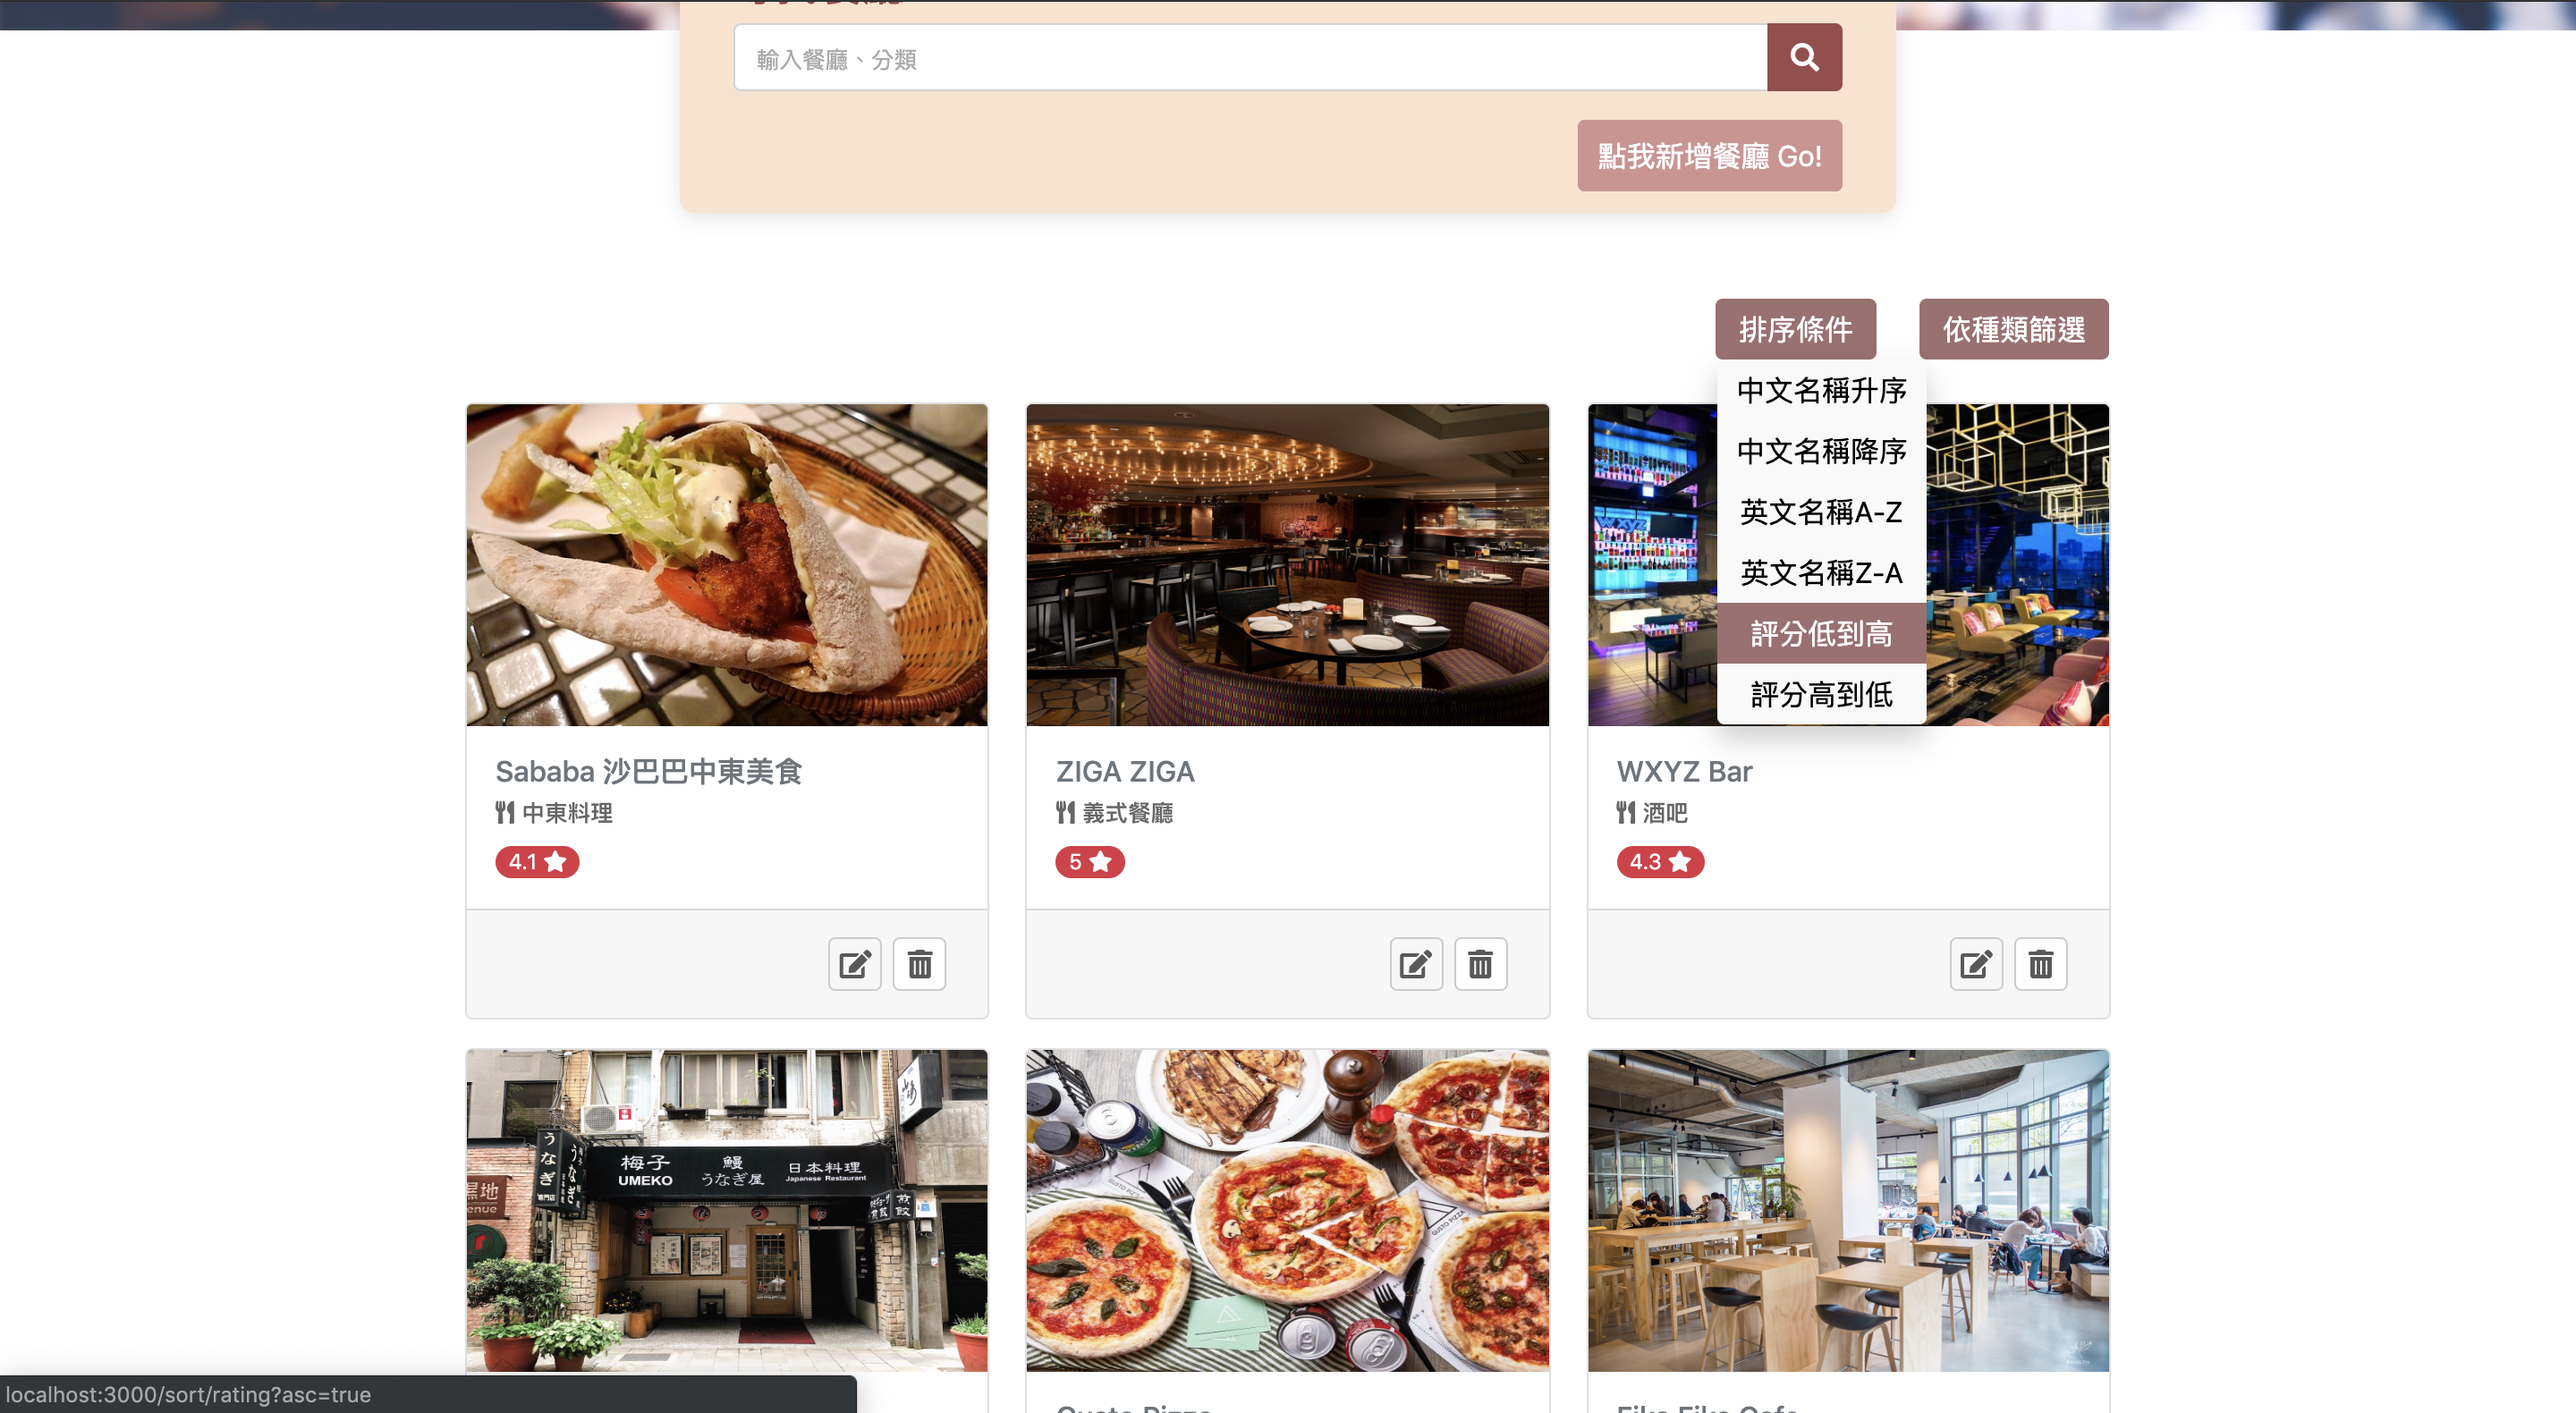
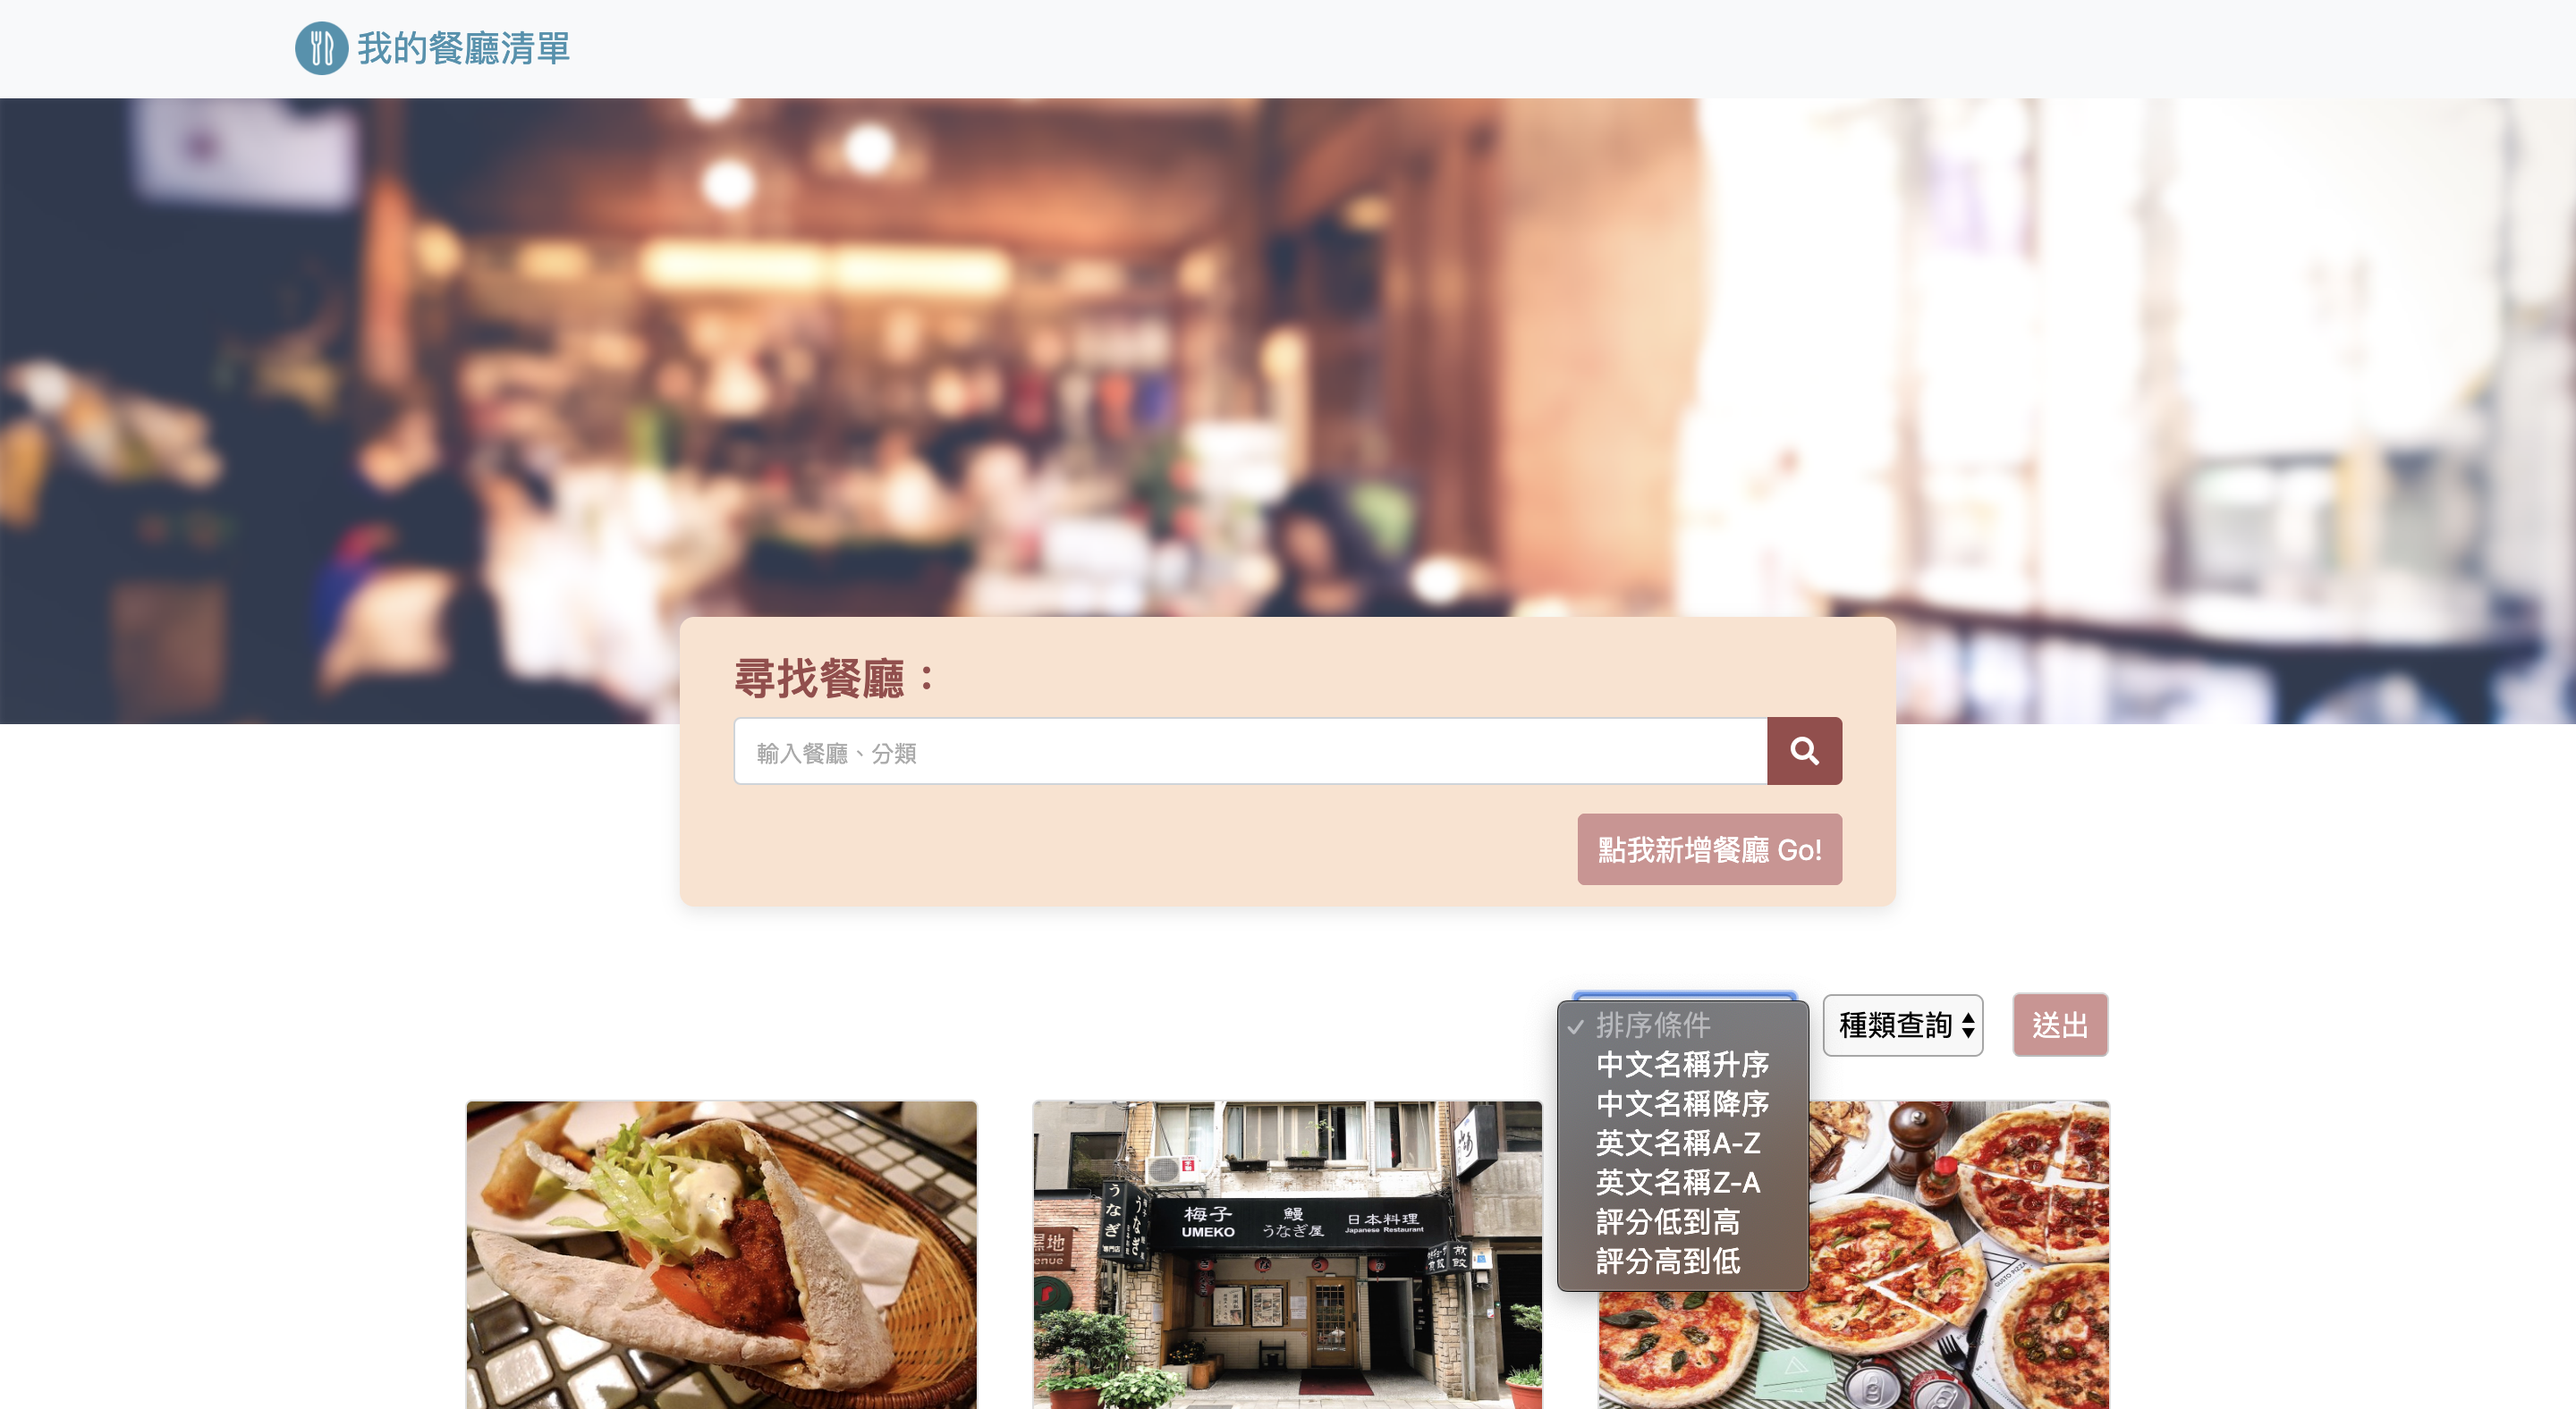
Update README.md

diff --git a/app.js b/app.js
@@ -51,8 +51,6 @@ app.use('/search', require('./routes/search'))
 // sort router
 app.use('/sort', require('./routes/sort'))
 
-// filter router
-app.use('/filter', require('./routes/filter'))
 
 app.listen(port, () => {
   console.log(`Express server is listening on http://localhost:${port}`)

diff --git a/README.md b/README.md
@@ -5,25 +5,31 @@
 - 可新增、讀取、更新、刪除餐廳資料
 - 可針對所有餐廳種類進行篩選(Filter)
 - 可按照（中文名稱 / 英文名稱 / 評分高低）進行餐廳排序
-- 可在每一間餐廳中新增評論至評論區
+- 可對餐廳名稱及種類進行搜尋
+- 可在每一間餐廳中新增評論至評論區，系統將自動生成評論日期
 - 刪除前會提醒使用者是否要刪除以免誤按
 
 ## Screenshots
 - 首頁: 點擊卡片上半部可進入詳細頁面，點擊下半部左邊按鈕可到達編輯頁面，點擊下半部右邊按鈕可刪除
+
 ![](./public/images/index1.png)
 ![](./public/images/index2.png)
 
 - 新增: 點下首頁的「點我新增餐廳 Go !」，進到新增頁面
+
 ![](./public/images/new.png)
 
-- 排序: 滑鼠移至排序條件將出現下拉選單，點選要排序的條件
+- 編輯頁面
+
+![](./public/images/edit.png)
+
+- 篩選與排序: 可點擊要排序的條件及篩讓餐廳種類，可交集搜尋
+
 ![](./public/images/sort.png)
 
-- 篩選: 滑鼠移至篩選條件將出現下拉選單，點選要篩選的餐廳種類
-![](./public/images/filter.png)
-
 - 刪除前出現確認刪除對話框
+
 ![](./public/images/delete-confirm.png)
 
-- 每個餐廳頁面下方可新增留言至評論區，將自動生成時間
+- 每個餐廳頁面下方可新增留言至評論區，系統將自動生成日期
 ![](./public/images/comment.png)
